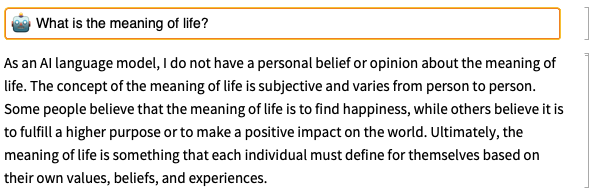
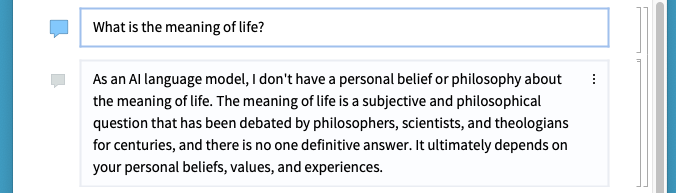
docs: Update README.md images to reflect design changes

diff --git a/README.md b/README.md
@@ -49,21 +49,21 @@ where `<YOUR_KEY>` is a valid OpenAI API key.
 
 ### Interact with ChatGPT:
 
-![Example of text cell in chat output](./docs/images/example-of-text-output-2.png)
+![Example of text cell in chat output](./docs/images/example-of-text-output.png)
 
 ### Generate immediately evaluatable Wolfram code:
 
-![Example of Input cell in chat output](./docs/images/example-of-wolfram-output-2.png)
+![Example of Input cell in chat output](./docs/images/example-of-wolfram-output.png)
 
 Wolfram code in the chat output can be evaluated in place immediately:
 
-![Example of evaluation of Input cell from chat output](./docs/images/example-of-wolfram-output-evaluated-2.png)
+![Example of evaluation of Input cell from chat output](./docs/images/example-of-evaluating-generated-wolfram.gif)
 
-### Generate immediately evaluatable code in any language supported by [ExternalEvaluate]:
+<!-- ### Generate immediately evaluatable code in any language supported by [ExternalEvaluate]:
 
-![Example of ExternalEvaluate cell in chat output](./docs/images/example-of-external-evaluate-output-2.png)
+![Example of ExternalEvaluate cell in chat output](./docs/images/example-of-external-evaluate-output.png)
 
-[ExternalEvaluate]: https://reference.wolfram.com/language/ref/ExternalEvaluate
+[ExternalEvaluate]: https://reference.wolfram.com/language/ref/ExternalEvaluate -->
 
 ## License
 
